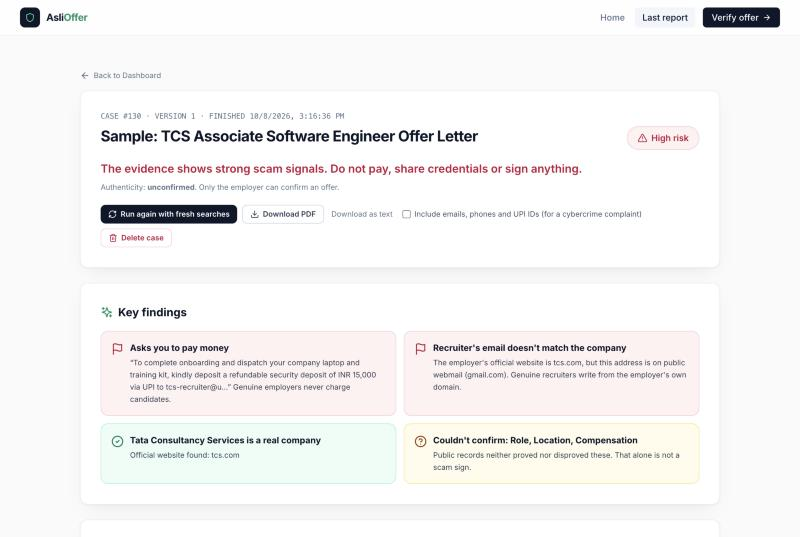
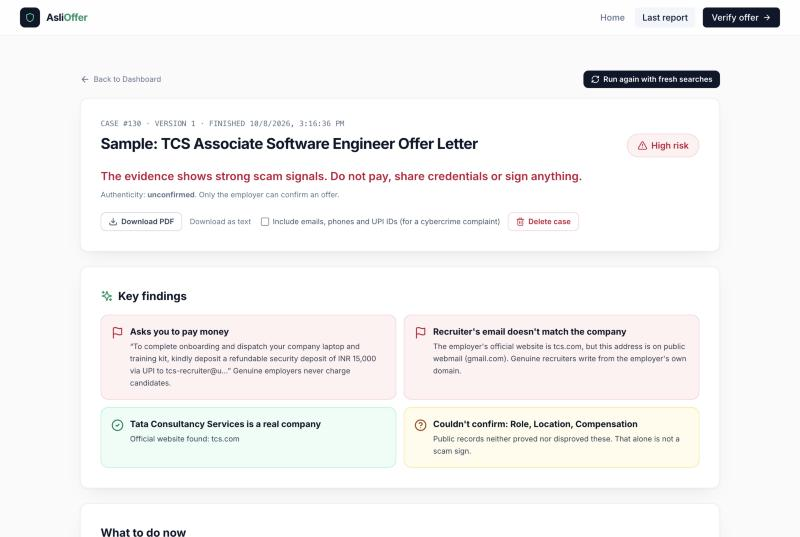
Move 'Run again with fresh searches' to the report's top-right corner

diff --git a/frontend/src/pages/OfferReport.tsx b/frontend/src/pages/OfferReport.tsx
@@ -286,13 +286,6 @@ export const OfferReport: React.FC = () => {
   const actions = (
     <>
       <button
-        onClick={() => runAgain(confirmationsFrom(result))}
-        disabled={busy}
-        className="px-3 py-1.5 rounded-lg text-xs font-semibold bg-slate-900 hover:bg-slate-800 text-white inline-flex items-center gap-1.5 disabled:opacity-60"
-      >
-        <RefreshCw className="w-3.5 h-3.5" /> Run again with fresh searches
-      </button>
-      <button
         onClick={() => downloadPdf(`aslioffer-report-${offerId}-v${run.version}`)}
         className="px-3 py-1.5 rounded-lg text-xs font-semibold border border-slate-300 text-slate-700 hover:bg-slate-50 inline-flex items-center gap-1.5"
       >
@@ -321,6 +314,7 @@ export const OfferReport: React.FC = () => {
         <Link to="/" className="inline-flex items-center gap-1.5 text-xs text-slate-500 hover:text-slate-900">
           <ArrowLeft className="w-4 h-4" /> Back to Dashboard
         </Link>
+        <div className="flex flex-wrap items-center gap-3">
         {finished.length > 1 && (
           <label className="text-xs text-slate-600 inline-flex items-center gap-2">
             Version
@@ -340,6 +334,14 @@ export const OfferReport: React.FC = () => {
             </select>
           </label>
         )}
+          <button
+            onClick={() => runAgain(confirmationsFrom(result))}
+            disabled={busy}
+            className="px-3 py-1.5 rounded-lg text-xs font-semibold bg-slate-900 hover:bg-slate-800 text-white inline-flex items-center gap-1.5 disabled:opacity-60"
+          >
+            <RefreshCw className="w-3.5 h-3.5" /> Run again with fresh searches
+          </button>
+        </div>
       </div>
       {newer && (
         <p className="text-xs text-amber-800 bg-amber-50 border border-amber-200 rounded-xl px-3 py-2">
